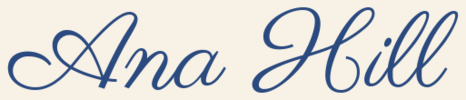
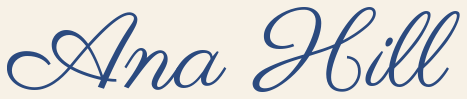
build: render name from bundled font
`render-pngs.sh` covered the SVG artwork but not `name-parisienne.png`, which came from a one-off ImageMagick run against a Parisienne font that is no longer installed anywhere. Changing the name meant reverse-engineering how it was made.

This commit bundles Parisienne (SIL OFL, license alongside it in `fonts/`) and has the script set the name with `magick` from that file, so the result doesn't depend on locally installed fonts. I matched the original by measuring its ink box: 106pt in the signature's ink and background colors, trimmed, then padded 7px. It reads the same as the original, though it isn't pixel-identical (467x99 vs 466x100), so I nudged the `<img>` width in `index.html` from 205 to 208 to keep the aspect ratio. `-strip` removes ImageMagick's timestamp chunks so re-running the script produces identical bytes and leaves the tree clean.

diff --git a/index.html b/index.html
@@ -39,9 +39,9 @@
                     <img
                       src="https://uhs-robert.github.io/ana-signature-assets/assets/name-parisienne.png"
                       alt="Ana Hill"
-                      width="205"
+                      width="208"
                       height="44"
-                      style="display: block; width: 205px; height: 44px; border: 0"
+                      style="display: block; width: 208px; height: 44px; border: 0"
                     />
                     <div
                       style="
